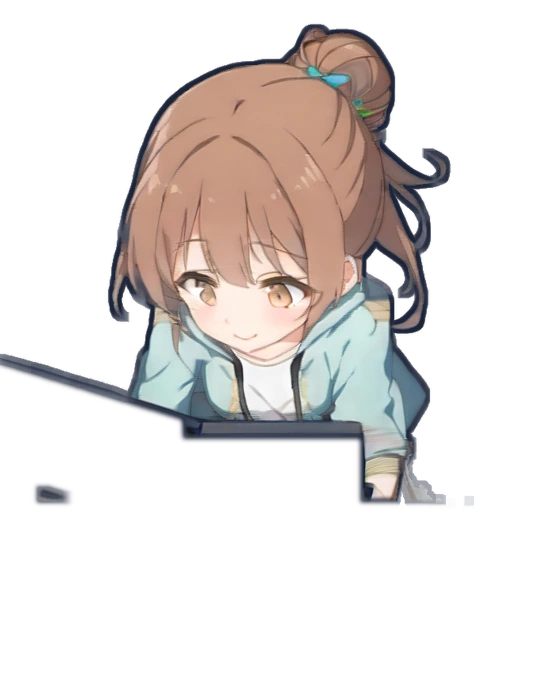
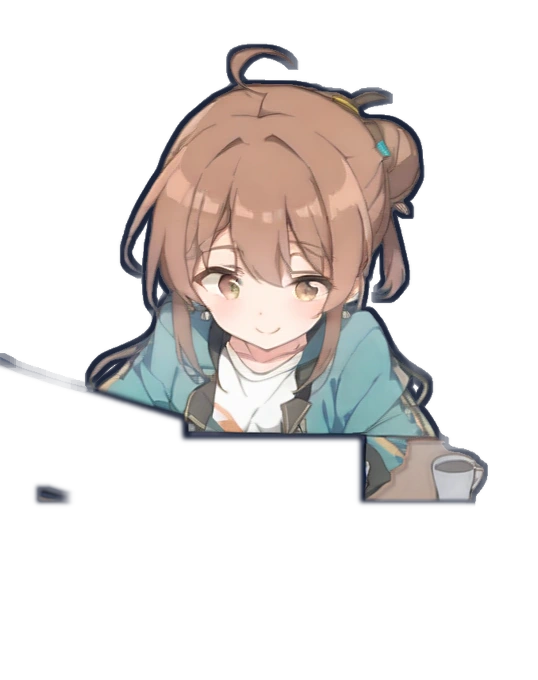
Match the Engineer's cat ears and the Designer's teal to the sheet
The Engineer at work is repainted with black cat ears ("black cap with
black cat ears"); her negative now also bans a ponytail and a pole,
which two candidates drew. A red streak left in her hair was filled in
from the hair around it in the source painting. The Designer is
repainted in both states in a deeper teal (prompt and guide jacket
#17867a), with one bun on her right as on the sheet.

Changed region(s): [[0.0, 0.0309, 0.9219, 0.7412]]

diff --git a/scripts/office/make_sprites.py b/scripts/office/make_sprites.py
@@ -43,7 +43,7 @@ CHARACTERS = {
         box=(255, 150, 490, 480),
         ref=(345, 190, 475, 345),  # head and shoulders: the pen hand would carry over
         who="1girl",
-        look="brown hair, hair bun, brown eyes, teal jacket, white shirt",
+        look="brown hair, hair bun, brown eyes, deep teal jacket, white shirt",
         busy="focused, gentle smile",
         idle="cheerful smile, open mouth",
     ),
@@ -66,10 +66,10 @@ CHARACTERS = {
         ref=(765, 180, 905, 350),  # head and shoulders: the peace sign would carry over
         who="1girl",
         look=(
-            "black cap with cat ears, silver hair with blue tint, blue eyes, "
+            "black cap with black cat ears, silver-blue hair, blue eyes, "
             "blue headphones, white jacket, light blue hood"
         ),
-        avoid=", headphones around neck, scarf",  # one headset, on the head
+        avoid=", headphones around neck, scarf, ponytail, pole",  # one headset, hair down, nothing behind
         busy="looking down at a laptop, typing, focused, closed mouth",
         idle="peace sign, happy, open mouth smile",
     ),

diff --git a/scripts/office/make_assets.py b/scripts/office/make_assets.py
@@ -43,7 +43,7 @@ ROLES = {
         hair="#8a5532",
         eyes="#b8742c",
         style="fluffy",
-        shirt="#2f9e8f",
+        shirt="#17867a",
         outfit="cardigan",
         inner="#f4f6fa",
         accent="#34d399",
